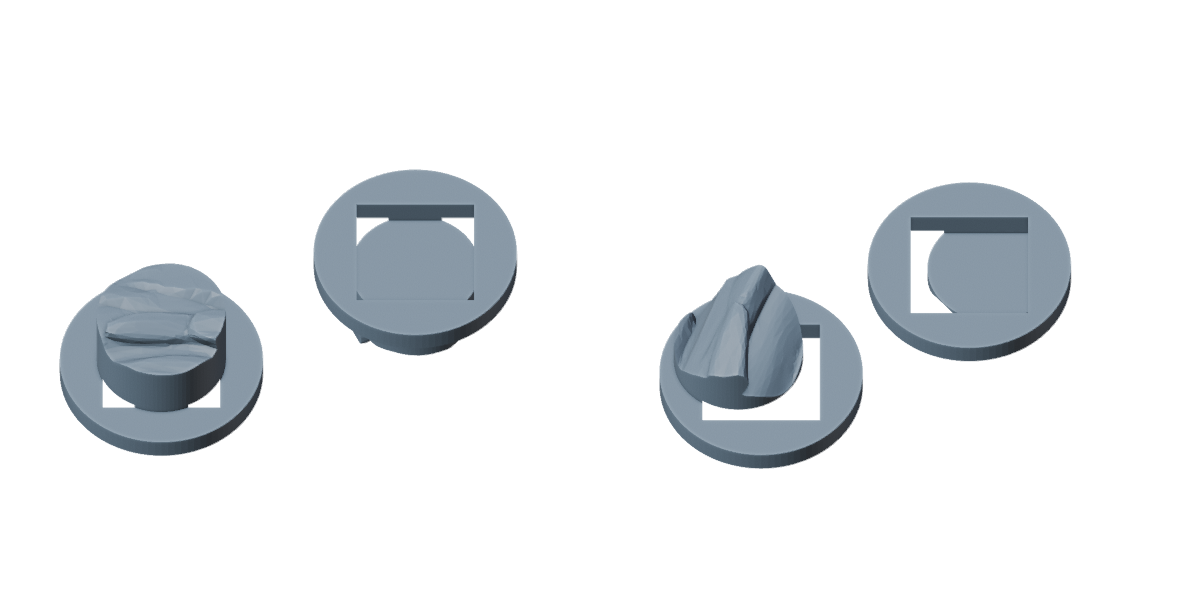
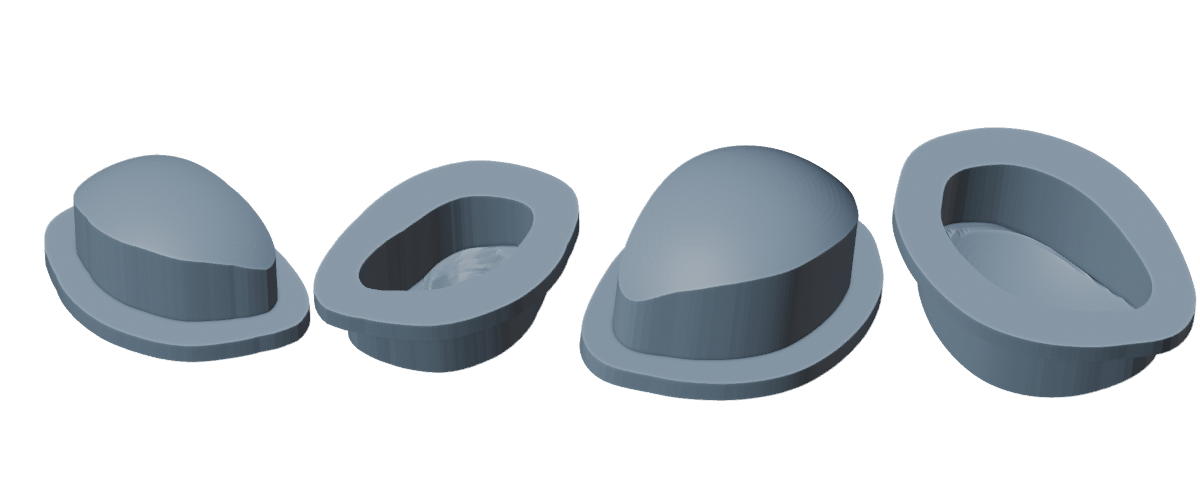
Ojos paso 2: insertos transparentes desde los ojos lisos (contorno exacto, cúpula lisa, iris en relieve por dentro, reborde y bolsillo del LED)

diff --git a/hardware/modelado/ojos5.py b/hardware/modelado/ojos5.py
@@ -1,0 +1,131 @@
+"""
+Ojos paso 2: insertos de resina transparente a partir de los ojos ya alisados (esferas perfectas).
+
+  - Contorno: borde real donde la esfera se encuentra con el párpado (caras de la cabeza alisada
+    que están sobre la esfera).
+  - Por fuera: la esfera lisa, calculada exacta.
+  - Por dentro: el iris tallado del ojo izquierdo original, en relieve (más resina = más oscuro);
+    en el ojo derecho, su espejo.
+  - Reborde por dentro (no se sale) + bolsillo del LED (Ø 8,9 × 2,6 mm medido) en la cabeza.
+
+Uso: python ojos5.py cabeza_ojos_lisos.stl cuervo_reparado.stl "forma preliminar.stl" globos.json espejo.json salida
+"""
+import sys, json
+from pathlib import Path
+import numpy as np, trimesh, manifold3d as mf
+from scipy.sparse import coo_matrix
+from scipy.sparse.csgraph import connected_components
+
+T, HOLG, PARED, REB, T_REB = 1.0, 0.10, 0.6, 1.4, 1.0
+LED_D, HOLG_LED, BOSS_EXTRA, BOSS_FONDO = 8.9, 0.2, 2.0, 11.0
+NS, NT = 18, 120
+cab_f, sol_f, orig_f, gl_f, esp_f, out = sys.argv[1:7]; out = Path(out); out.mkdir(parents=True, exist_ok=True)
+man = lambda t: mf.Manifold(mf.Mesh(vert_properties=np.asarray(t.vertices, np.float32), tri_verts=np.asarray(t.faces, np.uint32)))
+def tm(M):
+    me = M.to_mesh(); return trimesh.Trimesh(np.asarray(me.vert_properties)[:, :3], np.asarray(me.tri_verts), process=False)
+cab_t = trimesh.load_mesh(cab_f, process=True); CAB = man(cab_t)
+SOL = man(trimesh.load_mesh(sol_f, process=True)); orig = trimesh.load_mesh(orig_f, process=True)
+G = json.load(open(gl_f))["der"]; E = json.load(open(esp_f))
+cR = np.array(G["centro_esfera"]); rR = G["radio"] + 0.28
+cLs = cR.copy(); cLs[0] = 2 * E["X0"] - cLs[0]; cLs += np.array(E["traslacion"]) + np.array([-0.4, -0.4, 0.0]); rL = G["radio"]
+ESF = {"izq": (cLs, rL), "der": (cR, rR)}
+
+
+def region_esfera(cen, r):
+    cc = cab_t.triangles_center
+    sel = np.nonzero((np.abs(np.linalg.norm(cc - cen, axis=1) - r) < 0.03) & (np.linalg.norm(cc - cen, axis=1) < r + 1))[0]
+    sub = cab_t.submesh([sel], append=True)
+    adj = sub.face_adjacency; F = len(sub.faces)
+    nc, lab = connected_components(coo_matrix((np.ones(len(adj)), (adj[:, 0], adj[:, 1])), shape=(F, F)), directed=False)
+    big = np.argmax(np.bincount(lab, sub.area_faces))
+    return sub.submesh([np.nonzero(lab == big)[0]], append=True)
+
+
+def marco(g, cen):
+    ar = g.area_faces; c0 = ar @ g.triangles_center / ar.sum()
+    e = c0 - cen; e /= np.linalg.norm(e)
+    x = np.cross([0, 0, 1], e); x /= np.linalg.norm(x); y = np.cross(e, x)
+    return c0, e, x, y
+
+
+def contorno(g, c, x, y):
+    b = trimesh.grouping.group_rows(g.edges_sorted, require_count=1)
+    P = g.vertices[np.unique(g.edges_sorted[b])] - c
+    th = np.arctan2(P @ y, P @ x); rr = np.hypot(P @ x, P @ y)
+    ts = np.linspace(-np.pi, np.pi, NT, endpoint=False)
+    R = np.array([np.percentile(rr[np.abs((th - t + np.pi) % (2 * np.pi) - np.pi) < 0.08], 60) for t in ts])
+    k = 2; Rp = np.r_[R[-k:], R, R[:k]]
+    return ts, np.convolve(Rp, np.ones(2 * k + 1) / (2 * k + 1), "valid")
+
+
+def h_esfera(pts, c, e, x, y, cen, r):
+    q = c + np.outer(pts[:, 0], x) + np.outer(pts[:, 1], y) - cen
+    b = q @ e; disc = b ** 2 - (q * q).sum(1) + r ** 2
+    return -b + np.sqrt(np.maximum(disc, 0))
+
+
+def h_malla(m, pts, c, e, x, y):
+    o = c + np.outer(pts[:, 0], x) + np.outer(pts[:, 1], y) + e * 20
+    L, I, _ = m.ray.intersects_location(o, np.tile(-e, (len(o), 1)), multiple_hits=False)
+    h = np.full(len(o), np.nan); h[I] = (L - c) @ e; return h
+
+
+fr = {}
+for nom in ("izq", "der"):
+    cen, r = ESF[nom]; g = region_esfera(cen, r)
+    c, e, x, y = marco(g, cen); ts, R = contorno(g, c, x, y)
+    fr[nom] = (cen, r, g, c, e, x, y, ts, R)
+    g.export(out / f"globo_visible_{nom}.stl")
+# relieve del iris en el marco del ojo izquierdo (original tallado menos la esfera)
+cenL, rL_, _, cL, eL, xL, yL, _, _ = fr["izq"]
+info, cabeza = {}, CAB
+for nom in ("izq", "der"):
+    cen, r, g, c, e, x, y, ts, R = fr[nom]
+    pts = np.array([(0.0, 0.0)] + [(rv * s * np.cos(t), rv * s * np.sin(t)) for s in np.linspace(0, 1, NS + 1)[1:] for t, rv in zip(ts, R)])
+    Hout = h_esfera(pts, c, e, x, y, cen, r)
+    pl = pts.copy()
+    if nom == "der": pl[:, 0] *= -1
+    d = h_malla(orig, pl, cL, eL, xL, yL) - h_esfera(pl, cL, eL, xL, yL, cenL, rL_)
+    d = np.nan_to_num(d, nan=np.nanpercentile(d, 90))
+    rel = np.clip(d - np.percentile(d, 90), -1.2, 0.0)
+    Hin = Hout - T + rel
+    P3 = lambda h: c + np.outer(pts[:, 0], x) + np.outer(pts[:, 1], y) + np.outer(h, e)
+    N = len(pts); idx = lambda si, ti: 1 + si * NT + (ti % NT)
+    F = []
+    for ti in range(NT):
+        F.append([0, idx(0, ti), idx(0, ti + 1)])
+        for si in range(NS - 1):
+            F += [[idx(si, ti), idx(si + 1, ti), idx(si + 1, ti + 1)], [idx(si, ti), idx(si + 1, ti + 1), idx(si, ti + 1)]]
+    F = np.array(F); W = []
+    for ti in range(NT):
+        a, b = idx(NS - 1, ti), idx(NS - 1, ti + 1); W += [[a, b, b + N], [a, b + N, a + N]]
+    sh = trimesh.Trimesh(np.vstack([P3(Hout), P3(Hin)]), np.vstack([F, F[:, ::-1] + N, W]), process=True)
+    trimesh.repair.fix_normals(sh)
+    if sh.volume < 0: sh.invert()
+    capa = man(sh)
+    M = np.column_stack([x, y, e, c])
+    sec = lambda off: mf.CrossSection([[(float((rv + off) * np.cos(t)), float((rv + off) * np.sin(t))) for t, rv in zip(ts, R)]])
+    ext = lambda off, z0, z1: mf.Manifold.extrude(sec(off), z1 - z0).translate([0, 0, z0]).transform(M)
+    borde_in = float(np.min(Hin[-NT:])); zr = float(np.min(Hin)) - 1.6
+    esf_o = mf.Manifold.sphere(r, 384).translate(list(cen))
+    pared = (ext(0, zr, 8) - ext(-PARED, zr - 1, 9)) ^ esf_o - mf.Manifold(sh.__class__ and man(sh)) if False else (ext(0, zr, 8) - ext(-PARED, zr - 1, 9)) ^ esf_o   # sube hasta la cúpula
+    reborde = (ext(REB, zr - T_REB, zr) - ext(-PARED, zr - 2, zr + 1)) ^ SOL.translate(list(-e * 0.8))
+    inserto = capa + pared + reborde
+    partes = inserto.decompose(); inserto = max(partes, key=lambda q: q.volume())
+    print(nom, 'trozos del inserto (mm³):', sorted([round(q.volume(), 1) for q in partes], reverse=True)[:4], flush=True)
+    rb = float(R.max()) + REB + BOSS_EXTRA
+    boss = mf.Manifold.cylinder(BOSS_FONDO, rb, rb, 128).translate([0, 0, zr - BOSS_FONDO + 2]).transform(M) ^ SOL
+    zl = zr - T_REB
+    bola = mf.Manifold.sphere(r + 0.03, 384).translate(list(cen))
+    hueco = ((ext(HOLG, zr - 0.01, 8) ^ bola) + ext(REB + HOLG, zl - 0.01, zr + 0.01)
+             + mf.Manifold.cylinder(BOSS_FONDO + 2, LED_D / 2 + HOLG_LED, LED_D / 2 + HOLG_LED, 128).translate([0, 0, zl - BOSS_FONDO - 1]).transform(M))
+    cabeza = (cabeza + boss) - hueco
+    tm(inserto).export(out / f"ojo_{nom}.stl")
+    info[nom] = {"contorno_mm": [round(float(2 * R.min()), 2), round(float(2 * R.max()), 2)],
+                 "grosor_mm": [round(float(np.min(Hout - Hin)), 2), round(float(np.max(Hout - Hin)), 2)],
+                 "volumen_mm3": round(inserto.volume(), 1), "trozos_descartados": len(partes) - 1}
+    print(nom, info[nom], flush=True)
+cab = max(cabeza.decompose(), key=lambda q: q.volume())
+tm(cab).export(out / "cabeza_ojos.stl")
+(out / "ojos.json").write_text(json.dumps(info, indent=2, ensure_ascii=False), encoding="utf-8")
+print("listo")
